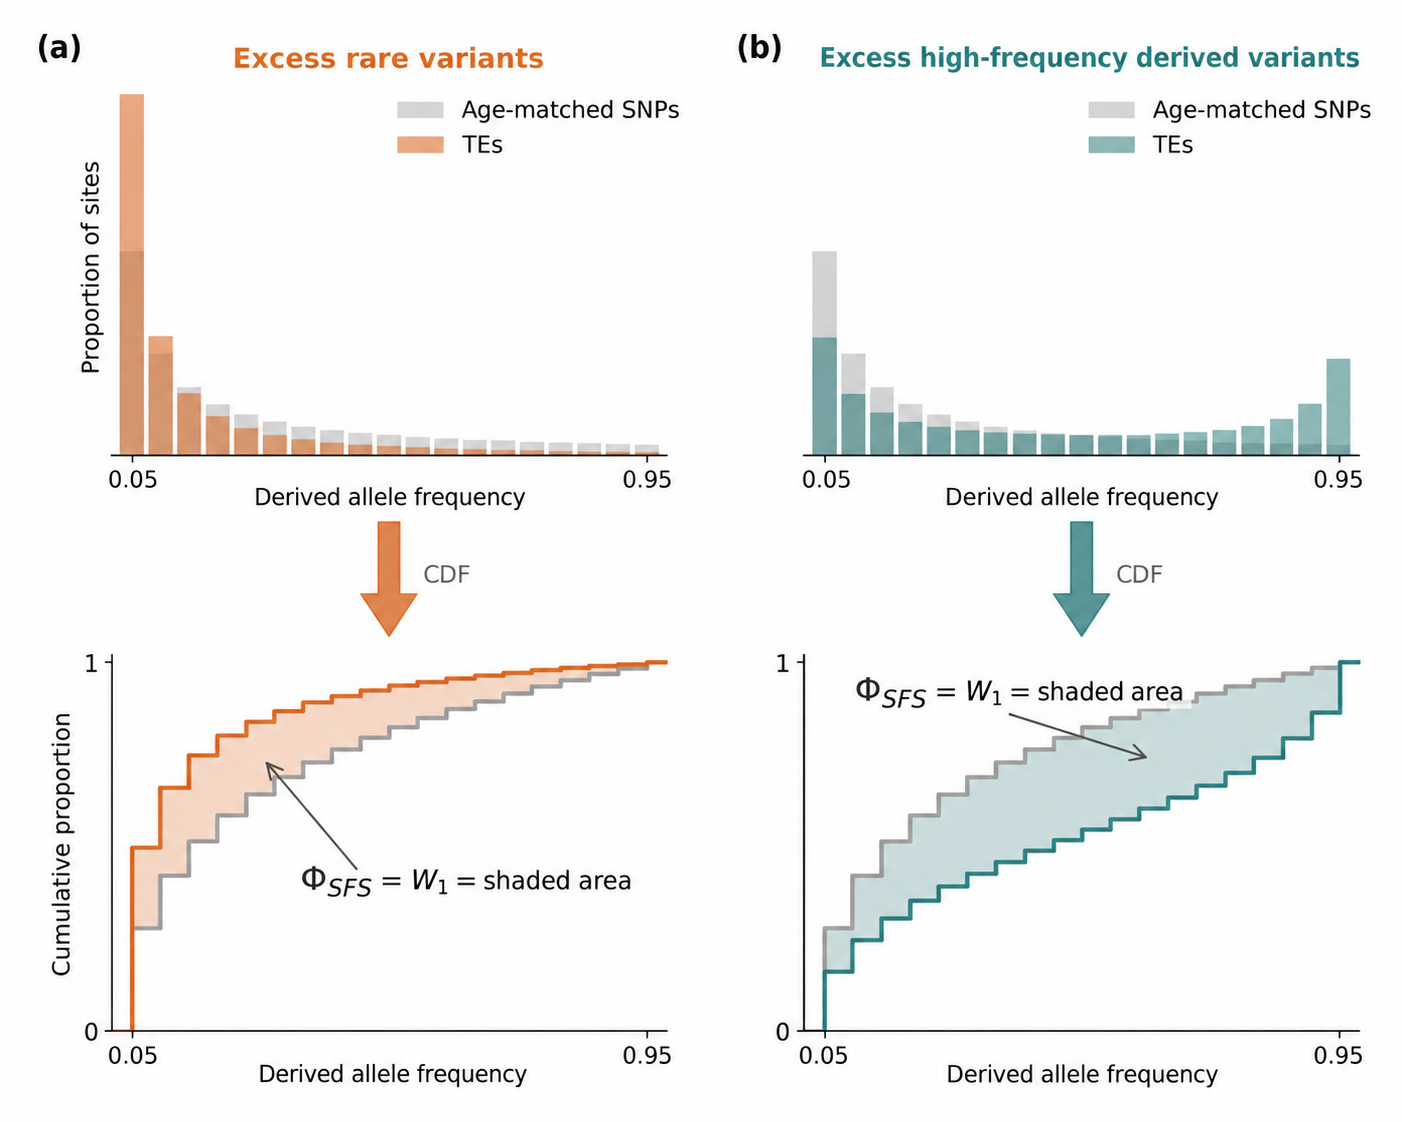
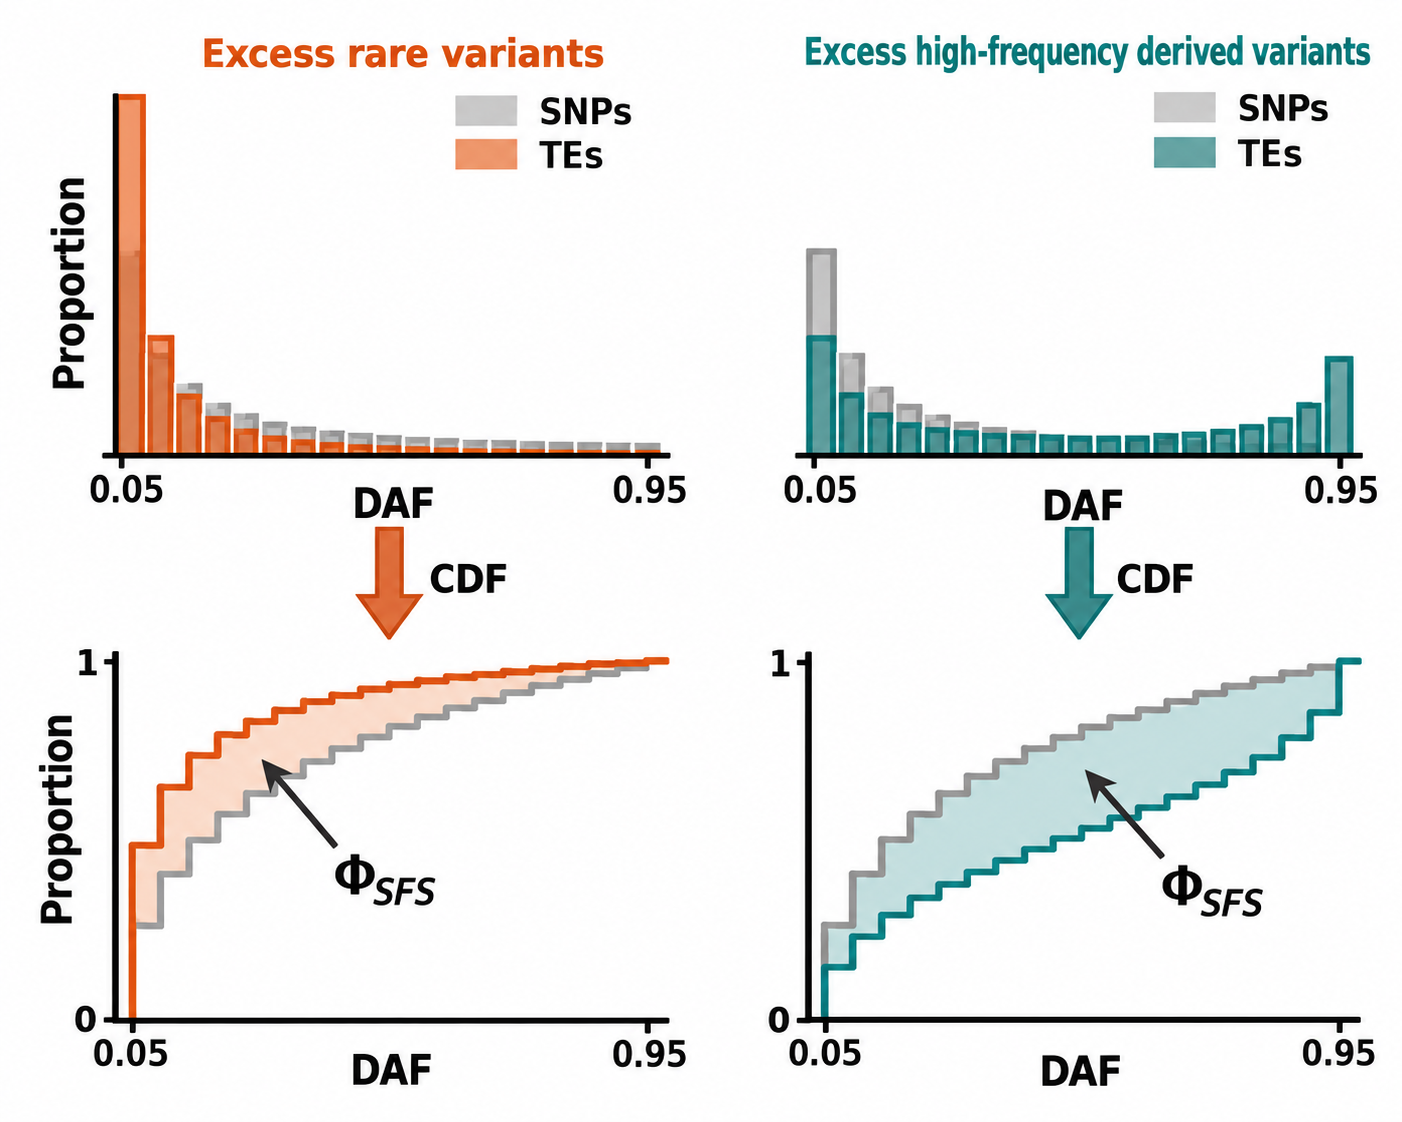
Enlarge Phi-SFS explanatory figures

diff --git a/README.md b/README.md
@@ -328,6 +328,16 @@ The default rejects heterozygous calls. Use `--heterozygous missing` only when t
 analysis should treat heterozygous individuals as uncallable. Sites with fewer than
 20 callable individuals are excluded from the spectrum.
 
+> **Warning: Phi-SFS is biased upward when the target is small.** It is a distance,
+> so it is strictly positive even between identical spectra, and that floor grows as
+> the number of sites falls — roughly 0.08 at 250 sites and 0.04 at 1,000. Two
+> Phi-SFS values computed from different numbers of sites are therefore not
+> comparable, and the smaller target scores higher for no biological reason. Always
+> report the site count, and correct or equalize it before comparing TE categories,
+> distance bins, or anything else that differs in abundance. See
+> [PHI_SFS_SAMPLE_SIZE_BIAS.md](docs/PHI_SFS_SAMPLE_SIZE_BIAS.md) for the size of the
+> effect and two validated corrections.
+
 ## Farm/Quobyte launchers
 
 Submit launchers with `sbatch` from the repository checkout. The launchers activate
@@ -488,6 +498,8 @@ interpretation of their spread.
   target and matching design.
 - [PHI_SFS_IMPLEMENTATION_PLAN.md](docs/PHI_SFS_IMPLEMENTATION_PLAN.md) — SFS projection,
   polarization mixture, and Phi-SFS definition.
+- [PHI_SFS_SAMPLE_SIZE_BIAS.md](docs/PHI_SFS_SAMPLE_SIZE_BIAS.md) — finite-sample bias in
+  Phi-SFS, the sampling floor, and two validated correction routes.
 - [BOOTSTRAP_DISCARDED_APPROACHES.md](docs/BOOTSTRAP_DISCARDED_APPROACHES.md) — evaluated
   approaches that are not part of the production route.
 - [CHANGELOG.md](docs/CHANGELOG.md) — release-level behavior changes.
